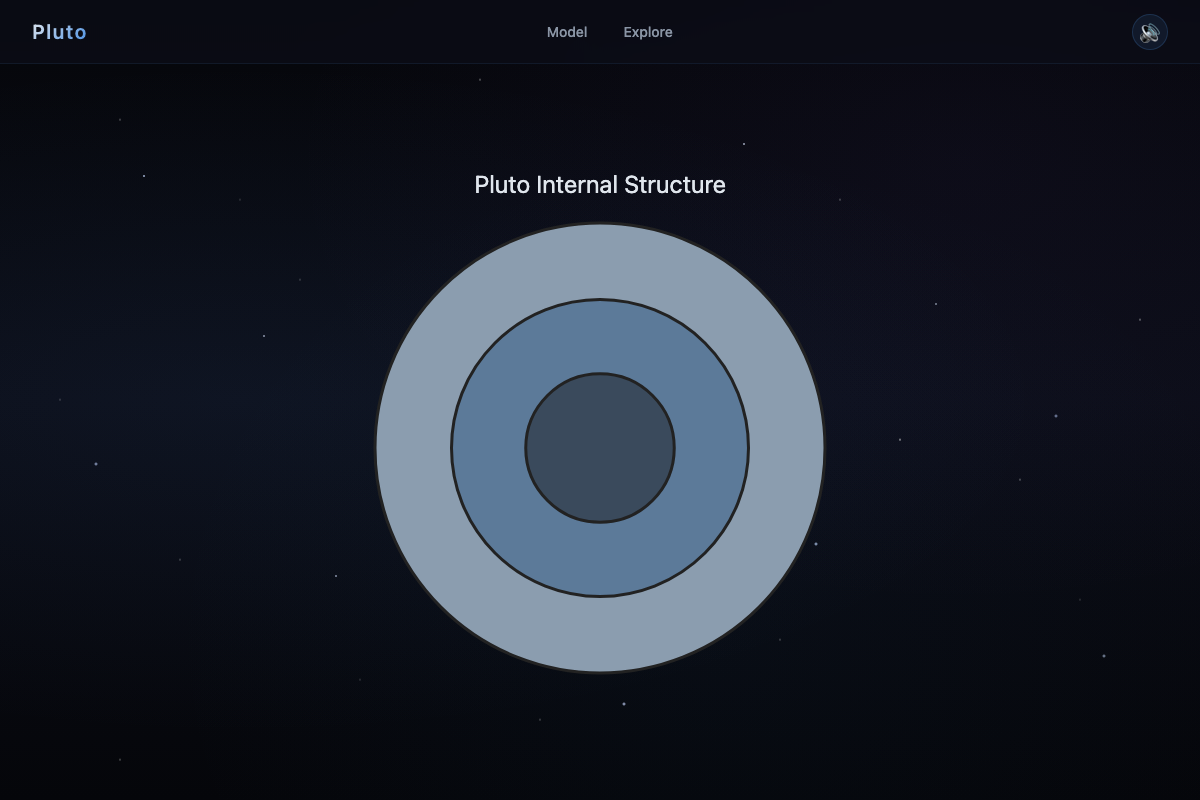
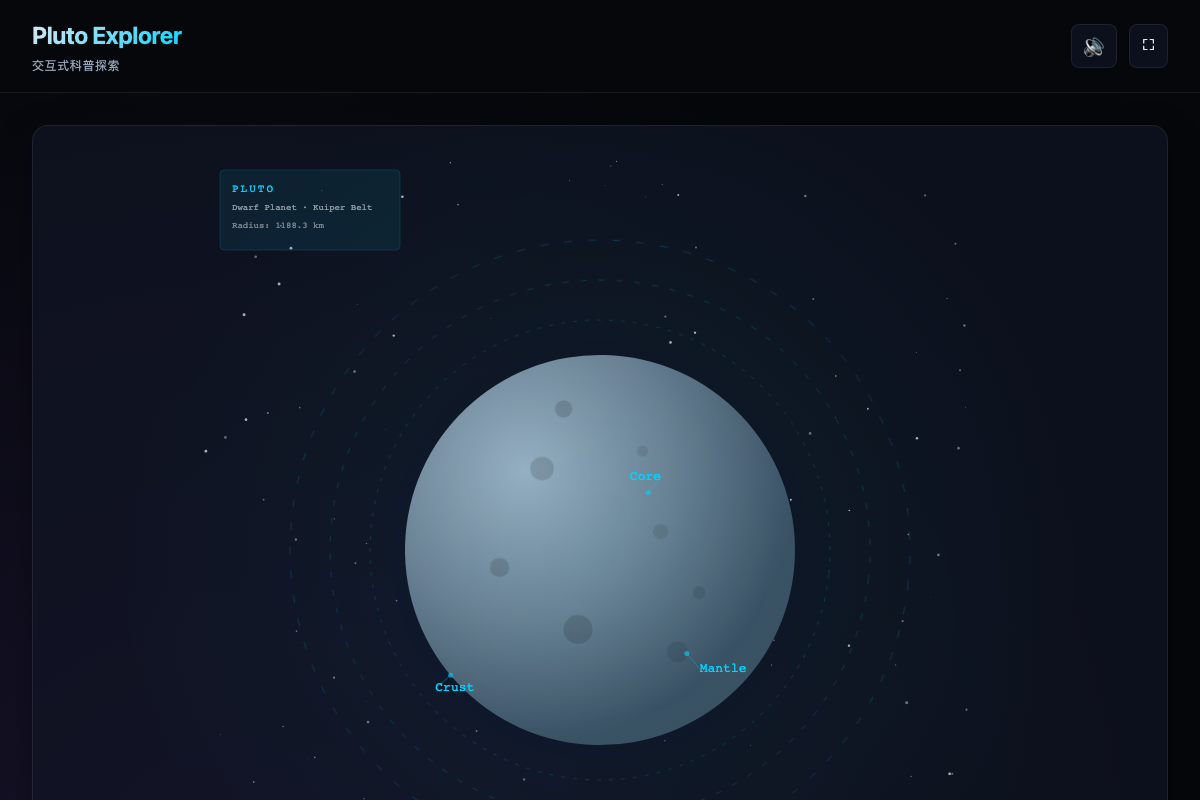
runner: pass (0 fix round(s)) for NEX-32

diff --git a/.symphony-runner/REPORT.md b/.symphony-runner/REPORT.md
@@ -2,7 +2,7 @@
 
 - **Deliverable type**: `web-modules`
 - **Status**: ✅ PASS
-- **Fix rounds run**: 2
+- **Fix rounds run**: 0
 - **Summary**: OK
 
 ## Screenshot
